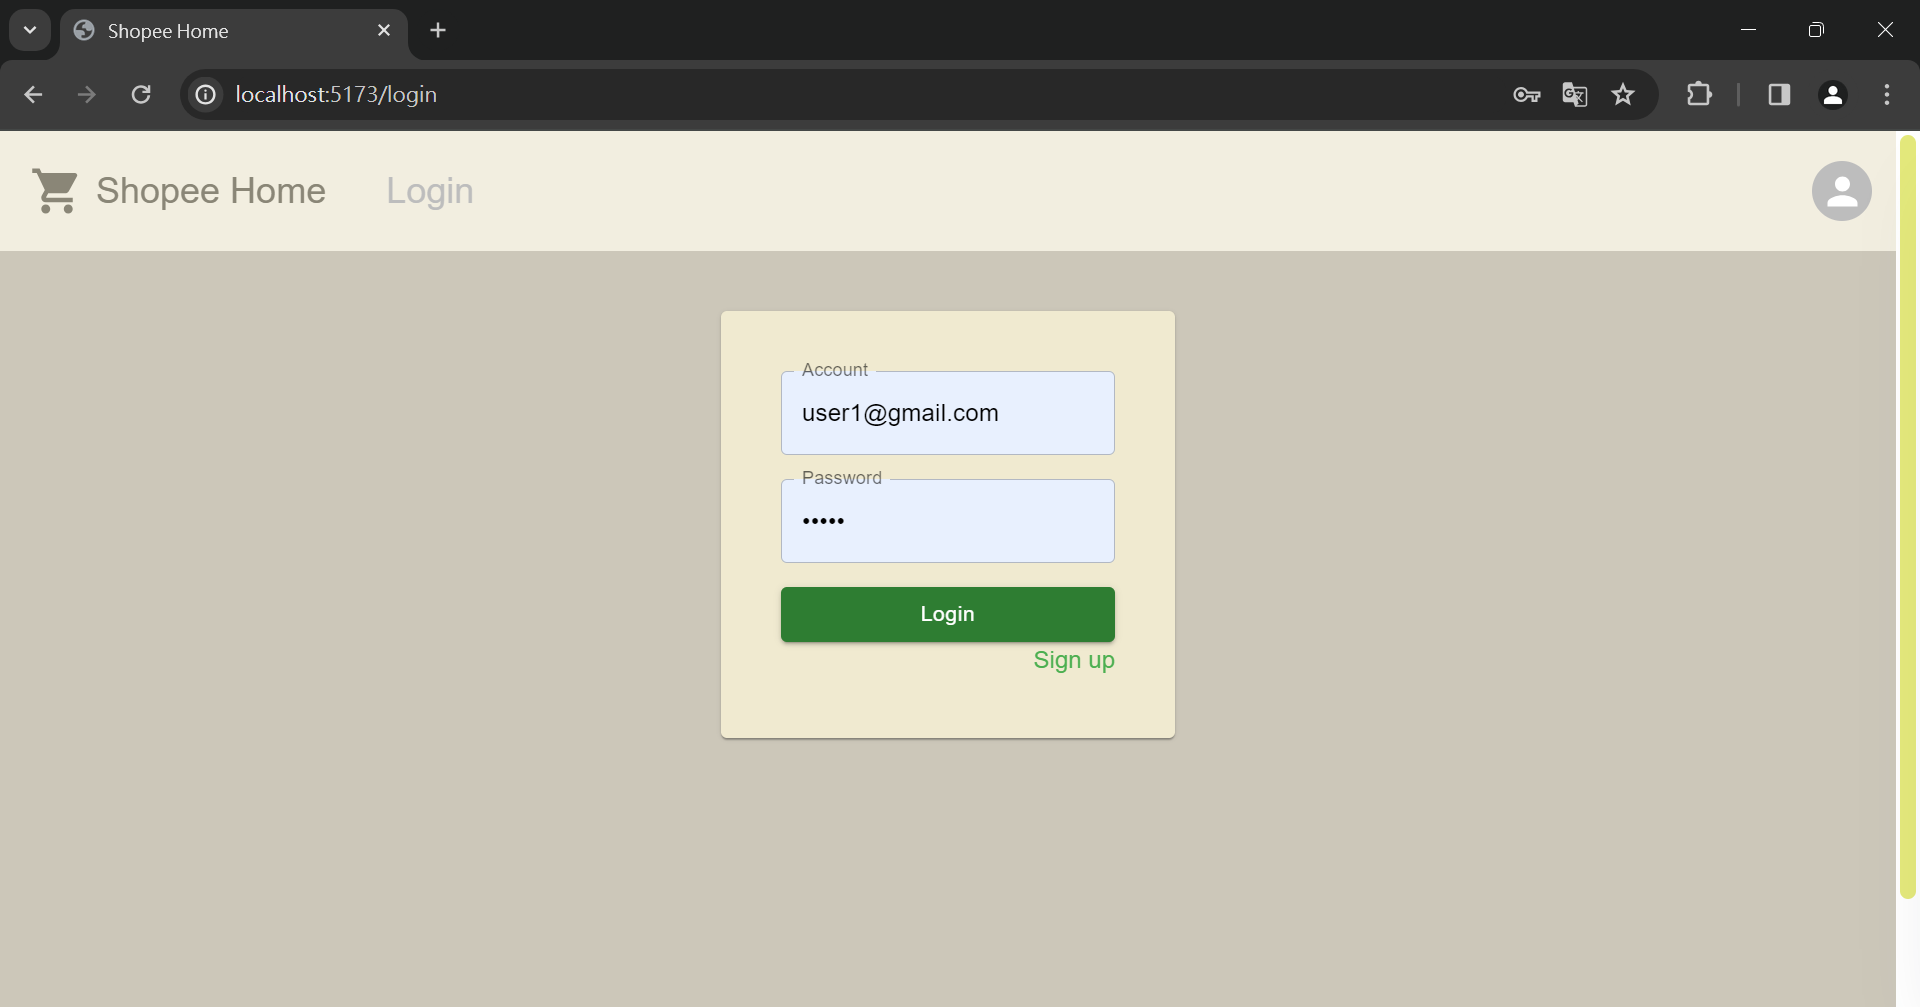
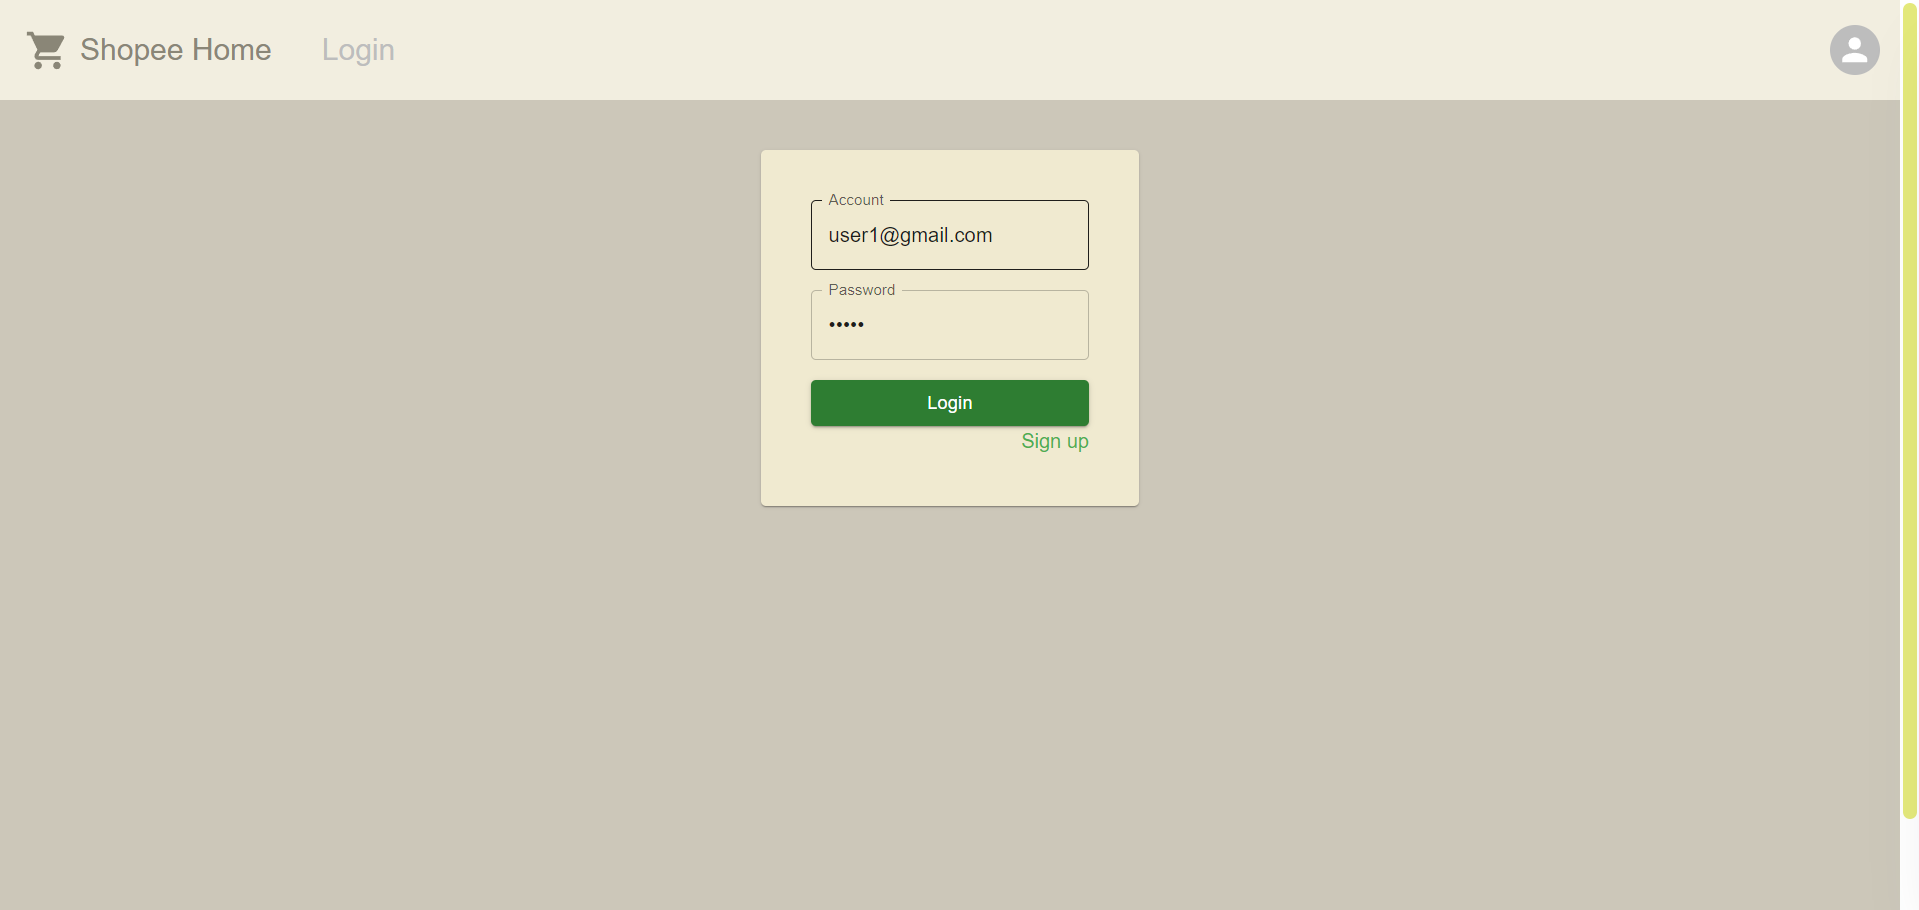
README complete

diff --git a/README.md b/README.md
@@ -1,11 +1,11 @@
 # ShopeeHome-frontend-User
 
-## 安裝
+## install
 
 1. 安裝Node.js
 2. 開啟cmd，在ShopeeHome-frontend目錄下輸入 `npm install`
 3. 輸入 `npm run dev`
-4. 把螢幕上出現的網址貼到禁用CORS政策的Google Chrome瀏覽器 
+4. 把螢幕上出現的網址貼到 disable CORS policy 的 Google Chrome 瀏覽器 
 
 ## 使用方式
 
@@ -37,23 +37,32 @@
       (不註冊的話可以用我們的測試帳號 email: user1@gmail.com , password: user1)
       <img src='./README_image/user_signupPage.png'/>
    3. 登入後點擊右上角user頭像可以打開drawer，從drawer可以連到user的各個相關頁面以及登出。
-      <img src='./README_image/user_drawer.png'/>
+      <img src='./README_image/user_drawerPage.png'/>
    4. 按下Personal Information 會先要求重新輸入帳號密碼確認身份後，跳到個人資訊修改頁面。
+      <img src='./README_image/user_confirmPage'/>
+      <img src='./README_image/user_InfprmationPage'/>
    5. 按下添加地址即可在個人資訊中添加常用地址以加快結帳速度（常用地址會顯示在結帳介面）。
+      <img src='./README_image/user_addressPage'/>
    6. 登入後的user可以使用client的所有功能，包括剛剛提到user無法領取的優惠券。
       (商店頁面可以看到優惠券，黑色代表未領取、綠色打勾代表已領取、灰色代表已使用)
       <img src='./README_image/user_shopPage_coupon.png'/>
    7. 在商品頁面按+-按鈕選擇數量，按下加入購物車且加入成功時左下角會出現提示，可以去購物車結帳完成訂單。
-      <img src='./README_image/user_productPage.png'/>
+      <img src='./README_image/user_shopping_1'/>
    8. 或者按下立即購買按鈕後會直接進入購買頁面（後面一起介紹）。
-      <img src='./README_image/user_createOrderPage_singleProduct.png'/>
+      <img src='./README_image/user_shopping_2'/>
    9. 打開右上角頭像按下ShoppingCart即可前往購物車。
+      <img src='./README_image/user_createOrderPage_1'/>
    10. 選擇想結帳的商品內容，同一筆訂單可以選擇同一商家的部分商品或全部商品進行結帳，不可以選擇不同商店的商品進行結帳。（勾選有設計無法同時勾選不同商店的商品）。
+       <img src='./README_image/user_createOrderPage_2'/>
    11. 在結帳頁面可以選擇之前輸入的地址或是自行輸入想要運送的地址。（剛剛按下直接購買也是跳到這個界面）。
+       <img src='./README_image/user_createOrderPage_3'/>
    12. 按下下一頁之後可以選擇剛才在商家領取的優惠卷，再次按下可取消使用。
-   13. 按下下一頁之後跳轉至確認下訂的頁面，按下立即下訂即下單成功。
+       <img src='./README_image/user_createOrderPage_4'/>
+   13. 按下下一頁之後跳轉至確認下訂的頁面，按下立即下訂即下單成功。    
+      <img src='./README_image/user_createOrderPage_5'/>
    14. 接下來可以按下user頭像，選擇Order查看訂單狀況，現在的狀況是尚未出貨。
+       <img src='./README_image/user_createOrderPage_6'/>
    15. 在賣家出貨之後會變成以下畫面（賣家出貨流程請見賣場的README），按下取貨即可看到取貨成功的畫面。
+       <img src='./README_image/user_createOrderPage_7'/>
    16. 按下user頭像，選擇Log Out登出，即變成登出狀態。
 
-以上是ShopeeHome-frontend-User的安裝和使用說明大綱。
